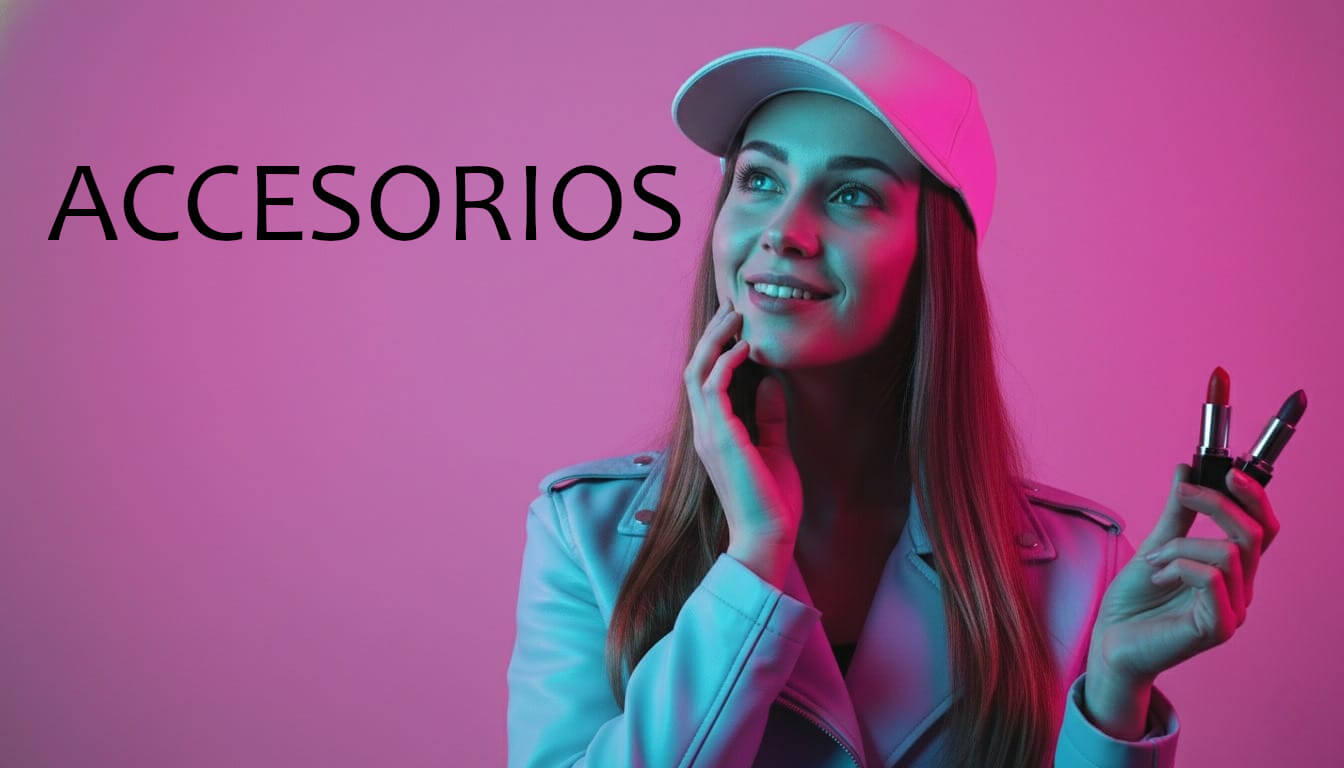
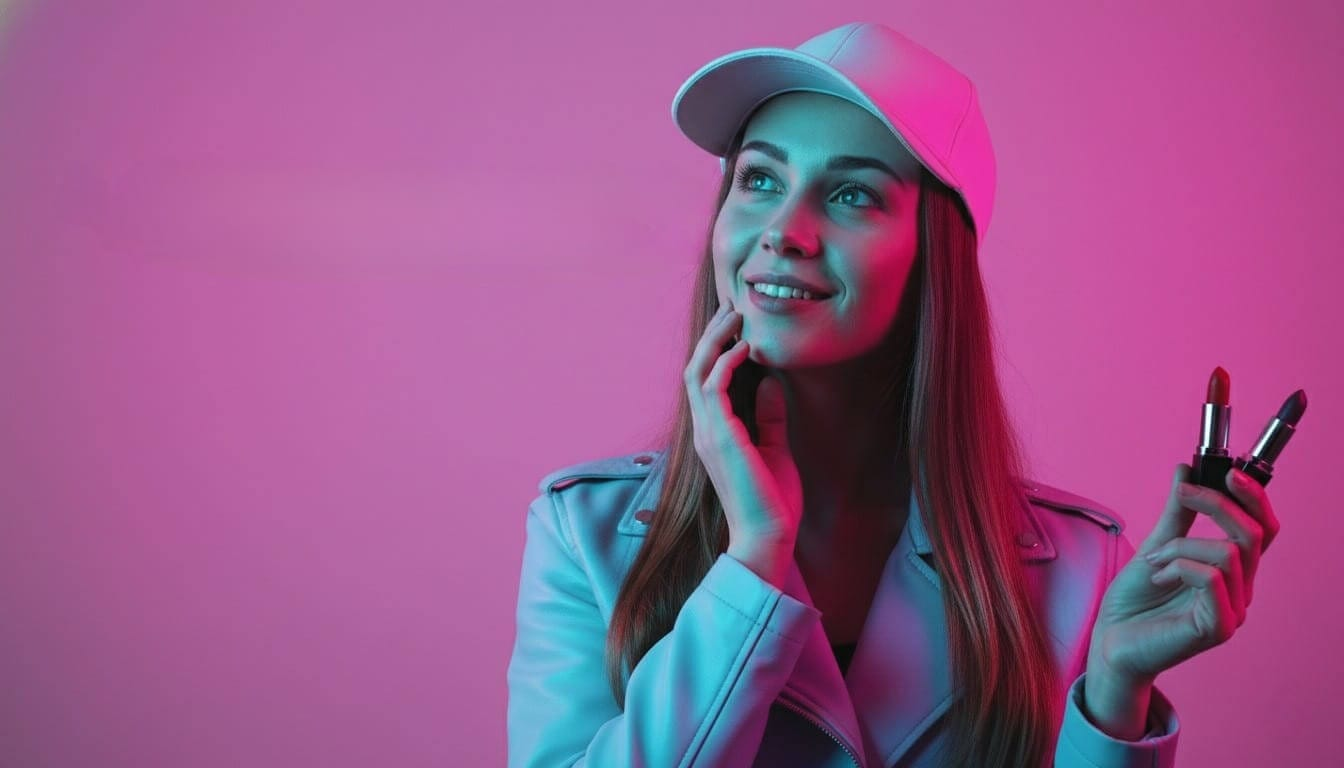
terminando semantica en index

Changed region(s): [[0.0312, 0.2188, 0.5312, 0.3125]]

diff --git a/css/main.css b/css/main.css
@@ -37,11 +37,92 @@ header .yellow-bg li a:active {
 }
 
 /**FIN HEADER*****************************************************************************/
-/*********FONDO PAGINA CONTACTO****************/
-.bg-contacto {
-  background-color: #e4e4db;
+main {
+  /***para acomodar "TRAJES DE BAÑO" dentro de la casilla, en la pagina del Index*/
 }
-
+main .menu-trajes-de-banio {
+  position: relative;
+}
+main .menu-trajes-de-banio img {
+  width: 100%;
+  height: auto;
+  display: block;
+}
+main .titulo-menu-trajes-de-banio {
+  position: absolute;
+  top: 18%;
+  left: 5%;
+  font-size: 5rem;
+  font-weight: 500;
+  color: black;
+  letter-spacing: 5px;
+}
+main .titulo-menu-trajes-de-banio span {
+  display: block; /*hace que el "CONJUNTOs DEPORTIVO" este en dos renglones*/
+}
+main {
+  /***para acomodar "CONJUNTOS DEPORTIVOS" dentro de la casilla, en la pagina del Index*/
+}
+main .menu-conjuntos-deportivos {
+  position: relative;
+}
+main .menu-conjuntos-deportivos img {
+  width: 100%;
+  height: auto;
+  display: block;
+}
+main .titulo-menu-conjuntos-deportivos {
+  position: absolute;
+  top: 18%;
+  left: 5%;
+  font-size: 5rem;
+  font-weight: 500;
+  color: black;
+  letter-spacing: 5px;
+}
+main .titulo-menu-conjuntos-deportivos span {
+  display: block; /*hace que el "CONJUNTOs DEPORTIVO" este en dos renglones*/
+}
+main {
+  /***para acomodar "SWEATERS" dentro de la casilla, en la pagina del Index*/
+}
+main .menu-sweaters {
+  position: relative;
+}
+main .menu-sweaters img {
+  width: 100%;
+  height: auto;
+  display: block;
+}
+main .titulo-menu-sweaters {
+  position: absolute;
+  top: 18%;
+  left: 5%;
+  font-size: 5rem;
+  font-weight: 500;
+  color: black;
+  letter-spacing: 5px;
+}
+main {
+  /***para acomodar "ACCESORIOS" dentro de la casilla, en la pagina del Index*/
+}
+main .menu-accesorios {
+  position: relative;
+}
+main .menu-accesorios img {
+  width: 100%;
+  height: auto;
+  display: block;
+}
+main .titulo-menu-accesorios {
+  position: absolute;
+  top: 18%;
+  left: 5%;
+  font-size: 5rem;
+  font-weight: 500;
+  color: black;
+  letter-spacing: 5px;
+}
 main section img .portada {
   width: 100%;
   height: auto;
@@ -52,7 +133,7 @@ main svg {
   height: 50px;
 }
 main svg:hover {
-  transform: scale(1.1);
+  transform: scale(1.01);
 }
 main .menu-principal {
   padding-top: 50px;
@@ -68,7 +149,7 @@ main .menu-principal div img { /* fuerzo a que las imagenes entren en su contene
   object-fit: contain;
 }
 main .menu-principal div img:hover {
-  transform: scale(1.1);
+  transform: scale(1.01);
 }
 main {
   /****PRODUCTOS DESTACADOS EN LA PAGINA PRINCIPAL****************************************************************/
@@ -312,6 +393,11 @@ main .boton-enviar:active {
   border-radius: 8px;
 }
 
+/*********FONDO PAGINA CONTACTO****************/
+.bg-contacto {
+  background-color: #e4e4db;
+}
+
 /*****MENU DEL FONDO *********************************************************************/
 .menu-abajo {
   background-color: rgb(71, 72, 82);
@@ -363,6 +449,29 @@ footer {
     width: 80%;
     display: block;
     margin: 0 auto;
+  }
+  main {
+    /***estas 4 clases es para que entre los titulos en los cuadros*/
+  }
+  main .titulo-menu-trajes-de-banio {
+    font-size: 2rem;
+    top: 18%;
+    left: 15%;
+  }
+  main .titulo-menu-conjuntos-deportivos {
+    font-size: 2rem;
+    top: 18%;
+    left: 15%;
+  }
+  main .titulo-menu-sweaters {
+    font-size: 2rem;
+    top: 18%;
+    left: 15%;
+  }
+  main .titulo-menu-accesorios {
+    font-size: 2rem;
+    top: 18%;
+    left: 15%;
   }
 }
 /*****PRODUCTOS DESTACADOS****************/

diff --git a/index.html b/index.html
@@ -109,27 +109,31 @@
 
             <!-- MENU PARA ACCEDER A LOS TRAJES DE BAÑO -->
             <div class="menu-trajes-de-banio">
-                    <a href="pages/trajesdebanio.html">
-                     <!-- la clase "menu" principal es para expandir las imagenes del menu cuando pasa el mouse -->
-                    <img src="imagenes/MenuPrincipal/trajesdebanio.png"  alt="trajes de playa femeninos" > </a>
+                <a href="pages/trajesdebanio.html">
+                <!-- la clase "menu" principal es para expandir las imagenes del menu cuando pasa el mouse -->
+                <img src="imagenes/MenuPrincipal/trajesdebanio.jpeg"  alt="trajes de playa femeninos" > 
+                <h2 class="titulo-menu-trajes-de-banio"><span>TRAJES</span><span>DE</span><span>BAÑO</span></h2></a>
             </div>
 
             <!-- MENU PARA ACCEDER A LOS CONJUNTOS DEPORTIVOS -->
             <div class="menu-conjuntos-deportivos">
                 <a href="pages/conjuntosdeportivos.html" >
-                <img src="imagenes/MenuPrincipal/conjuntosdeportivos.jpeg" alt="conjunto deportivos femeninos"  ></a>                    
+                <img src="imagenes/MenuPrincipal/conjuntosdeportivos.jpeg" alt="conjunto deportivos femeninos">                   
+                <h2 class="titulo-menu-conjuntos-deportivos"><span>CONJUNTOS</span><span>DEPORTIVOS</span></h2></a>
             </div>
 
             <!-- MENU PARA ACCEDER A LOS SWEATERS -->
             <div class="menu-sweaters">
                 <a href="pages/sweaters.html" >
-                <img src="imagenes/MenuPrincipal/sweaters.jpeg"  alt="sweatter femeninos"  ></a>                    
+                <img src="imagenes/MenuPrincipal/sweaters.jpeg"  alt="sweatter femeninos">                    
+                <h2 class="titulo-menu-sweaters">SWEATERS</h2></a>
             </div>
 
             <!-- MENU PARA ACCEDER A LOS ACCESORIOS -->
             <div class="menu-accesorios">
                 <a href="pages/accesorios.html" >                    
-                <img src="imagenes/MenuPrincipal/accesorios.jpeg"  alt="accesorios femeninos"  ></a>                                 
+                <img src="imagenes/MenuPrincipal/accesorios.jpeg"  alt="accesorios femeninos" >                                 
+                <h2 class="titulo-menu-accesorios">ACCESORIOS</h2></a>
             </div>
 
         </nav>

diff --git a/sass/pages/_home.scss b/sass/pages/_home.scss
@@ -48,19 +48,70 @@ header{
                 }   
         }
     }
-
-
 }
 
 /**FIN HEADER*****************************************************************************/
 
-/*********FONDO PAGINA CONTACTO****************/
-.bg-contacto{
-        background-color: #e4e4db;
-    }
+
 
 
 main{
+     
+    /***para acomodar "TRAJES DE BAÑO" dentro de la casilla, en la pagina del Index*/
+    .menu-trajes-de-banio{
+        @include relative;
+        img{
+            @include image;
+        }
+    }
+    .titulo-menu-trajes-de-banio {
+        @include titulo-portada(18%,5%,5rem,black);
+        span{
+            display: block;/*hace que el "CONJUNTOs DEPORTIVO" este en dos renglones*/
+        }
+    }   
+
+
+     /***para acomodar "CONJUNTOS DEPORTIVOS" dentro de la casilla, en la pagina del Index*/
+    .menu-conjuntos-deportivos{
+        @include relative;
+        img{
+            @include image;
+        }
+    }
+    .titulo-menu-conjuntos-deportivos {
+        @include titulo-portada(18%,5%,5rem,black);
+        span{
+            display: block;/*hace que el "CONJUNTOs DEPORTIVO" este en dos renglones*/
+        }
+    }   
+
+
+    /***para acomodar "SWEATERS" dentro de la casilla, en la pagina del Index*/
+    .menu-sweaters{
+        @include relative;
+        img{
+            @include image;
+        }
+    }
+    .titulo-menu-sweaters {
+        @include titulo-portada(18%,5%,5rem,black);
+    }   
+
+
+    /***para acomodar "ACCESORIOS" dentro de la casilla, en la pagina del Index*/
+    .menu-accesorios{
+        @include relative;
+        img{
+            @include image;
+        }
+    }
+    .titulo-menu-accesorios {
+        @include titulo-portada(18%,5%,5rem,black);
+    }  
+
+
+
      
    
     section{
@@ -77,7 +128,7 @@ main{
     }
 
     svg:hover{
-        transform: scale(1.1);
+        transform: scale(1.01);
     }
 
     .menu-principal{
@@ -96,7 +147,7 @@ main{
                 object-fit: contain;
 
                 &:hover{
-                    transform: scale(1.1);
+                    transform: scale(1.01);
                 }
             }
         }
@@ -293,6 +344,10 @@ main{
         border-radius: 8px;         
     }
 }   
+/*********FONDO PAGINA CONTACTO****************/
+.bg-contacto{
+        background-color: #e4e4db;
+    }
  
 /*****MENU DEL FONDO *********************************************************************/
 

diff --git a/sass/layout/_mq-mobile.scss b/sass/layout/_mq-mobile.scss
@@ -33,6 +33,23 @@
             display: block;
             margin: 0 auto;
         }
+
+        /***estas 4 clases es para que entre los titulos en los cuadros*/
+        .titulo-menu-trajes-de-banio {
+            @include titulo-portada-mq(2rem,18%,15%);
+        }
+
+        .titulo-menu-conjuntos-deportivos {
+            @include titulo-portada-mq(2rem,18%,15%);
+        }
+
+        .titulo-menu-sweaters {
+            @include titulo-portada-mq(2rem,18%,15%);
+        }
+
+        .titulo-menu-accesorios {
+            @include titulo-portada-mq(2rem,18%,15%);
+        }
     }
 }
 
